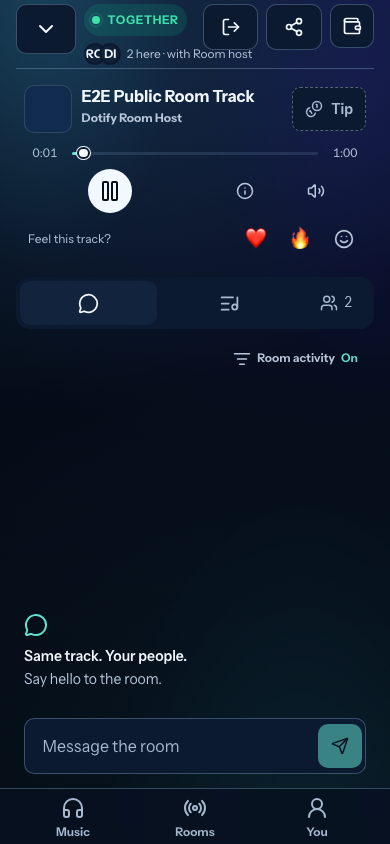
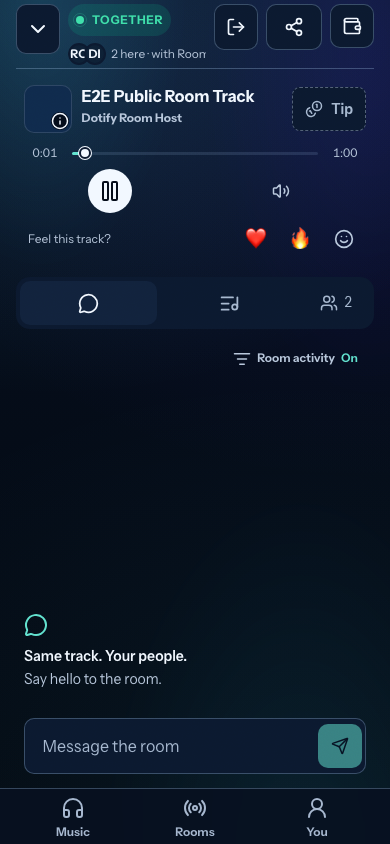
docs: record room layout CI regression and corrected captures

diff --git a/docs/backlog/implementation/evidence/listening-controls-and-discovery-2026-11-05.md b/docs/backlog/implementation/evidence/listening-controls-and-discovery-2026-11-05.md
@@ -8,7 +8,8 @@ stays open for publication and physical validation.
 
 Base: tested `dev` `609d0d975583858c6793aac5904391065a4d509e`, whose Web tree
 matches the already verified 0.1.73 candidate. Base dev CI 41957906904 is green.
-Implementation commit: `0cacee6b028b95be8150f646383cefaefade709f`.
+Initial implementation: `0cacee6b028b95be8150f646383cefaefade709f`.
+CI layout correction: `d9b6269cea769a52937d323c274547644fb0c013` (checks below).
 
 ## Account access during listening
 
@@ -23,7 +24,8 @@ the merged #386 path, and reconnect does not autoplay or pay.
 
 ## Discovery belongs to the current room
 
-The player transport now exposes About this release to room hosts and guests.
+The room cover now exposes About this release to room hosts and guests,
+without adding a fourth button to the compact transport row.
 `roomReleaseDetails` enriches only the current room hash/runtime identity with a
 matching catalog release. A missing/ambiguous match remains a labelled host
 snapshot; an unrelated solo selection is never substituted. Only explicit
@@ -110,6 +112,34 @@ Synthetic-fixture captures, inspected from the passing Chromium run:
 | Player account, 320px | Room discovery, 390px | Current release sheet, 390px |
 | --- | --- | --- |
 | ![Account control in the mobile player](assets/listening-controls-2026-11-05/player-account-320.png) | ![Room discovery entry and account control](assets/listening-controls-2026-11-05/room-discovery-entry-mobile.png) | ![Current release and artist details while the room remains active](assets/listening-controls-2026-11-05/room-current-release-mobile.png) |
+
+## CI room-layout correction
+
+The first complete CI core-flow run found seven layout regressions that the
+initial focused set did not include: the 320×568 room conversation and six
+small/zoomed/transitioning keyboard viewports. Adding the release-info action
+wrapped the compact transport controls; adding the account control could also
+wrap the host header. Their extra height displaced the composer below the
+visible viewport. This was a client layout regression, not an intermittent
+runner or storage failure.
+
+`PlayerView` now opens room details from the existing cover footprint with an
+info cue and accessible button. `player-presence.css` keeps the compact header
+on one line and switches the invite to its icon at narrow container widths,
+including narrowed visual viewports. Account, room exit and share remain
+separate controls; no touch target or existing geometry assertion is reduced.
+The workspace test also checks that account/discovery controls are visible,
+inside the viewport and at least 44×44px. Dialog, audio and guest boundaries are
+unchanged. The seven original failures pass locally after this correction.
+The expanded local run passes all 51 Chromium workspace/room-join/player/account
+scenarios. WebKit passes six keyboard-layout regressions and the four focused
+account/artwork scenarios. Web and frozen Product DevNet builds, changed-file
+lint, formatting and whitespace checks pass. Full GitHub CI is required again
+for the corrected head.
+
+Inspected corrected layouts: [320px room](assets/listening-controls-2026-11-05/room-conversation-320.png)
+and [narrowed visual viewport above the simulated keyboard](assets/listening-controls-2026-11-05/room-keyboard-zoomed.png).
+These are controlled browser layout captures, not physical keyboard evidence.
 
 ## Deployment and remaining gates
 
